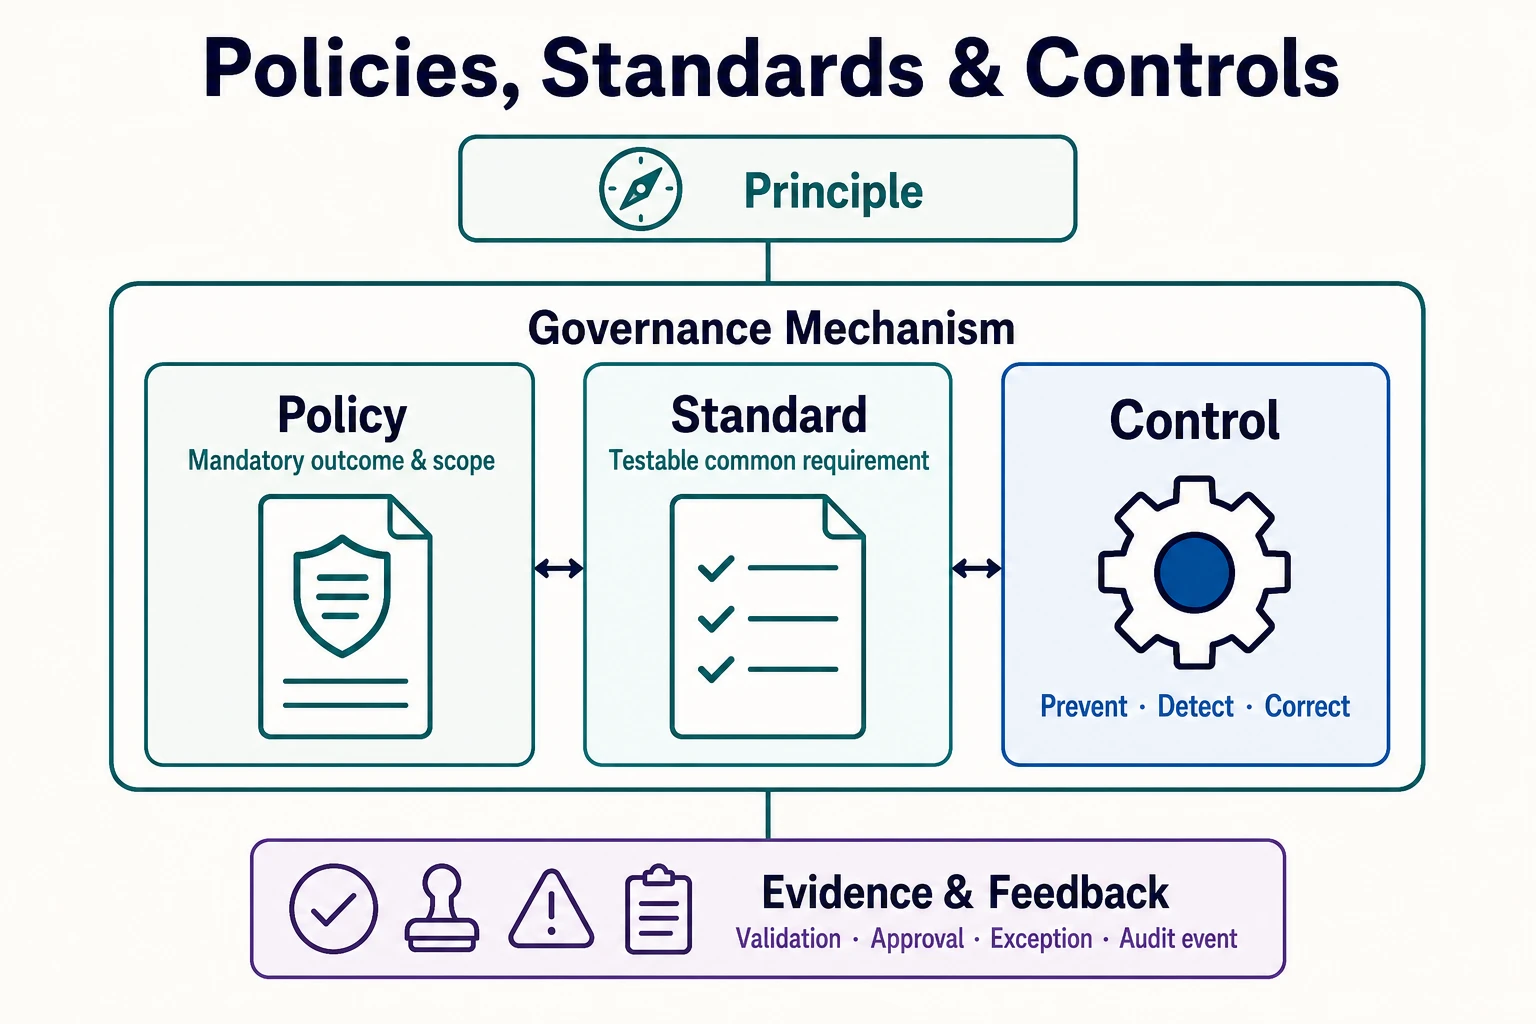
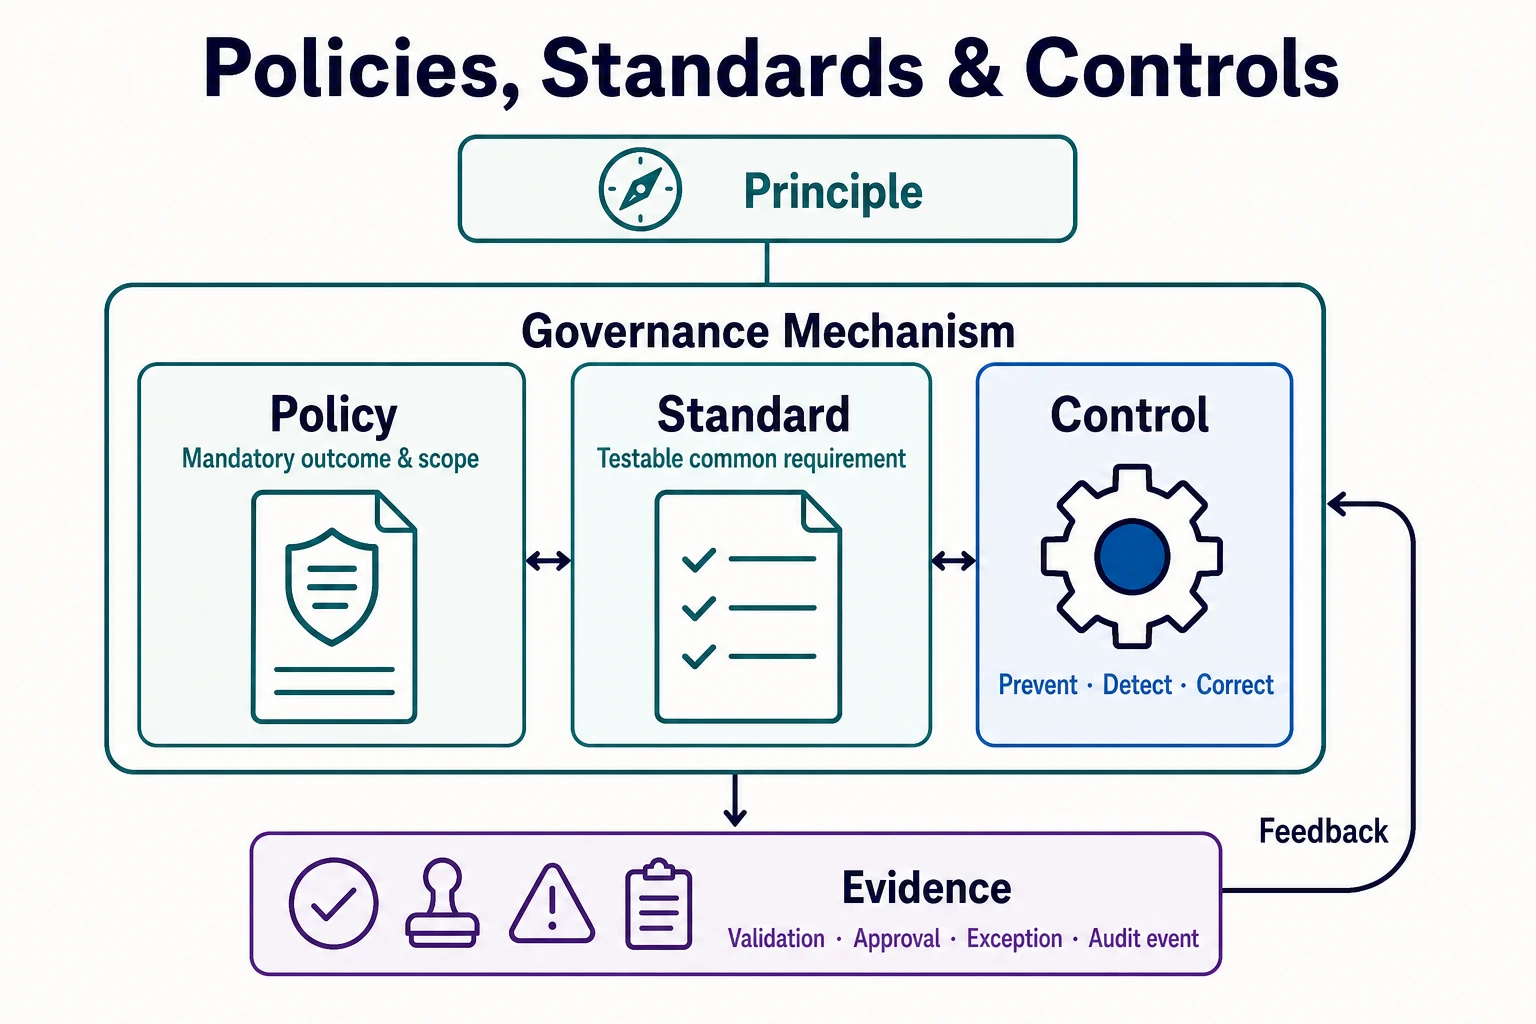
Distinguish governance evidence and feedback

diff --git a/prompts/docs/data/governance/imagen/03-policies-standards-and-controls.md b/prompts/docs/data/governance/imagen/03-policies-standards-and-controls.md
@@ -1,7 +1,7 @@
 ---
 type: image
 path: /docs/data/governance/policies-standards-and-controls
-description: Policy, Standard, and Control grouped as one governance mechanism informed by Principle and producing Evidence for assurance and feedback.
+description: Policy, Standard, and Control grouped as one governance mechanism informed by Principle, producing Evidence whose review returns as Feedback.
 ---
 
 # Image Generation Prompt — Policies, Standards, and Controls
@@ -10,11 +10,11 @@ Create a polished 1536 × 1024 pixels technical infographic titled **Policies, S
 
 ## Purpose
 
-Help readers distinguish the three subjects named by the page title and understand how they connect. Show Policy, Standard, and Control as equally important but different elements inside one clearly bounded governance mechanism. Grouping is more important than a rigid pipeline. Place Principle outside and above the group, and Evidence downstream as support for assurance and feedback.
+Help readers distinguish the three subjects named by the page title and understand how they connect. Show Policy, Standard, and Control as equally important but different elements inside one clearly bounded governance mechanism. Grouping is more important than a rigid pipeline. Place Principle outside and above the group. Show Evidence as an output of the mechanism and Feedback as the return path through which review informs the mechanism.
 
 ## Core Message
 
-Policy defines a mandatory outcome and scope. Standard translates expectations into testable common requirements. Control is the operating mechanism that prevents, detects, or corrects deviation. Principle provides stable direction to the grouped mechanism as a whole. Evidence demonstrates design and operation and supports feedback. These are traceable relationships, not a universal one-to-one hierarchy.
+Policy defines a mandatory outcome and scope. Standard translates expectations into testable common requirements. Control is the operating mechanism that prevents, detects, or corrects deviation. Principle provides stable direction to the grouped mechanism as a whole. The mechanism produces Evidence that demonstrates design and operation. Review of that evidence returns as Feedback that can improve the mechanism. These are traceable relationships, not a universal one-to-one hierarchy.
 
 ## Composition
 
@@ -40,7 +40,7 @@ Inside the Control column, place a compact inset labeled **Control Objective** w
 
 Control Objective and the three modes are details of Control. Do not give them the same visual rank as Policy, Standard, or Control. Do not connect the three modes to one another.
 
-Place a slim tray labeled **Evidence & Feedback** below the grouped mechanism. Include compact icons for validation, approval, exception, and audit event. Connect the tray to the group as observable output and feedback, not as another policy level or document.
+Place a slim tray labeled **Evidence** below the grouped mechanism. Include compact icons for validation, approval, exception, and audit event. Use one clear downward arrow from the grouped mechanism to Evidence to show that operation creates observable records. Separately, draw a curved return arrow from Evidence back to the outer Governance Mechanism boundary and label that path **Feedback**. Feedback is the result of reviewing evidence and informing improvement; it is not a document, tray, or synonym for Evidence.
 
 ## Visual Hierarchy
 
@@ -48,8 +48,9 @@ Place a slim tray labeled **Evidence & Feedback** below the grouped mechanism. I
 - Governance Mechanism visibly groups Policy, Standard, and Control as the three dominant and equally weighted subjects
 - Principle is a quiet directional context above them
 - Control Objective and Prevent, Detect, Correct are subordinate details inside Control
-- Evidence & Feedback is a subordinate operational output below the group
-- First reading: Principle informs the grouped mechanism; second reading: the three related elements and their evidence
+- Evidence is a subordinate operational output below the group
+- Feedback is a labeled return path from Evidence to the Governance Mechanism
+- First reading: Principle informs the grouped mechanism; second reading: the mechanism produces Evidence and receives Feedback
 
 ## Style
 
@@ -84,14 +85,16 @@ Use only these exact labels:
 - **Prevent**
 - **Detect**
 - **Correct**
-- **Evidence & Feedback**
+- **Evidence**
+- **Feedback**
 
 ## Do
 
 - Give Policy, Standard, and Control equal column width and equal title prominence.
 - Use document-like cues for Policy and Standard, but not for Control.
 - Use a target for Control Objective and a gear or switch for Control.
-- Show Evidence as a retained record produced by Control operation.
+- Show Evidence as retained records produced by operation.
+- Show Feedback only as the return path created by reviewing Evidence.
 - Make the shared Governance Mechanism boundary visually unambiguous.
 - Connect Principle to the group as a whole.
 - Render all required text exactly as written.
@@ -103,6 +106,7 @@ Use only these exact labels:
 - Show Prevent, Detect, and Correct as sequential stages.
 - Leave Policy, Standard, and Control ungrouped, or show Control Objective as a peer of Control.
 - Make Principle, Control Objective, or Evidence a fourth main column.
+- Combine Evidence and Feedback into one label or box.
 - Point Principle directly to Standard or any one inner card.
 - Present Policy → Standard → Control as a strict maturity sequence or universal one-to-one hierarchy.
 - Use multiple competing paths, crossing connectors, or branching arrows.

diff --git a/content/docs/data/governance/policies-standards-and-controls/_index.ja.md b/content/docs/data/governance/policies-standards-and-controls/_index.ja.md
@@ -8,7 +8,7 @@ next: "/docs/data/governance/data-classification"
 
 ガバナンスは、相互に関係するポリシー、標準、管理策の仕組みによって、意図を観測可能な振る舞いへ結び付けます。
 
-![原則がポリシー、標準、管理策をまとめたガバナンス機構全体へ方向性を与え、証跡とフィードバックが保証を支える関係](policies-standards-controls.ja.webp "ポリシー、標準、管理策")
+![原則がポリシー、標準、管理策をまとめたガバナンス機構全体へ方向性を与え、機構が証跡を生成し、そのレビュー結果がフィードバックとして機構へ戻る関係](policies-standards-controls.ja.webp "ポリシー、標準、管理策")
 
 この接続は、実装できない抽象的な方針と、目的が不明な技術管理策という二つの問題を防ぎます。それぞれの要素は、目的との追跡可能性を保ちながら、対象読者に適した内容である必要があります。経営層とポリシーオーナーが必須成果を示し、ドメインと技術の専門家が共通要件へ変換し、デリバリー・プラットフォームチームが管理策を運用します。
 
@@ -22,7 +22,7 @@ next: "/docs/data/governance/data-classification"
 | **管理策（Control）**  | 逸脱を予防、検知、是正する機構 | 必須メタデータがなければ公開を停止する           |
 | **証跡（Evidence）**   | 設計と作動を実証する記録       | 検証結果、承認、例外、監査イベント               |
 
-これらの要素は追跡可能な関係を形成しますが、すべてが同じ種類の階層ではなく、必ず一対一に対応するものでもありません。原則はガバナンスの仕組み全体へ方向性を与え、詳細なルールがない場合の判断を導きます。ポリシーは定義された範囲で成果を必須にします。標準は検証可能な共通要件を示し、不要なばらつきを減らします。管理策はその要件に対して動作する行為または機構であり、別の文書ではありません。証跡はレビュー、フィードバック、保証を支えるために保持される結果です。
+これらの要素は追跡可能な関係を形成しますが、すべてが同じ種類の階層ではなく、必ず一対一に対応するものでもありません。原則はガバナンスの仕組み全体へ方向性を与え、詳細なルールがない場合の判断を導きます。ポリシーは定義された範囲で成果を必須にします。標準は検証可能な共通要件を示し、不要なばらつきを減らします。管理策はその要件に対して動作する行為または機構であり、別の文書ではありません。証跡は設計と作動を実証するために保持される結果です。その証跡をレビューして得たフィードバックが、ポリシー、標準、管理策、またはその実装の改善に戻されます。
 
 **統制目標（Control Objective）** は、一つの実装方法を指定せず、管理策が達成すべき結果を示します。予防的管理策は許容できない操作を止め、発見的管理策は逸脱を明らかにし、是正的管理策は許容状態へ戻します。いずれも手動または自動で実行できます。
 

diff --git a/content/docs/data/governance/policies-standards-and-controls/_index.md b/content/docs/data/governance/policies-standards-and-controls/_index.md
@@ -8,7 +8,7 @@ next: "/docs/data/governance/data-classification"
 
 Governance connects intent to observable behavior through a related mechanism of policies, standards, and controls.
 
-![Principle informing a grouped governance mechanism of Policy, Standard, and Control, with Evidence and Feedback supporting assurance](policies-standards-controls.webp "Policies, Standards, and Controls")
+![Principle informing a grouped governance mechanism of Policy, Standard, and Control; the mechanism produces Evidence, whose review returns as Feedback](policies-standards-controls.webp "Policies, Standards, and Controls")
 
 This connection prevents two common problems: high-level statements that cannot be implemented, and technical controls that have no clear policy purpose. Each element should be traceable to the intent it serves while remaining appropriate to its own audience. Executives and policy owners state required outcomes; domain and technical specialists translate those outcomes into common requirements; delivery and platform teams operate the controls.
 
@@ -22,7 +22,7 @@ This connection prevents two common problems: high-level statements that cannot 
 | **Control**   | Mechanism that prevents, detects, or corrects deviation | Block publication when required metadata is absent               |
 | **Evidence**  | Record that demonstrates design and operation           | Validation result, approval, exception, or audit event           |
 
-These elements form traceable relationships, but they are not all layers of the same kind or a mandatory one-to-one hierarchy. A principle guides the governance mechanism as a whole and supports judgment when no detailed rule exists. A policy makes an outcome mandatory for a defined scope. A standard reduces unnecessary variation by describing a testable common requirement. A control is an action or mechanism that operates against that requirement, not another document. Evidence is the retained result that supports review, feedback, and assurance.
+These elements form traceable relationships, but they are not all layers of the same kind or a mandatory one-to-one hierarchy. A principle guides the governance mechanism as a whole and supports judgment when no detailed rule exists. A policy makes an outcome mandatory for a defined scope. A standard reduces unnecessary variation by describing a testable common requirement. A control is an action or mechanism that operates against that requirement, not another document. Evidence is the retained result that demonstrates design and operation. Reviewing that evidence produces feedback that can improve policies, standards, controls, or their implementation.
 
 A **control objective** states the result a control must achieve without prescribing one implementation. Preventive controls stop an unacceptable action; detective controls reveal it; corrective controls restore an acceptable state. Each can be manual or automated.
 
